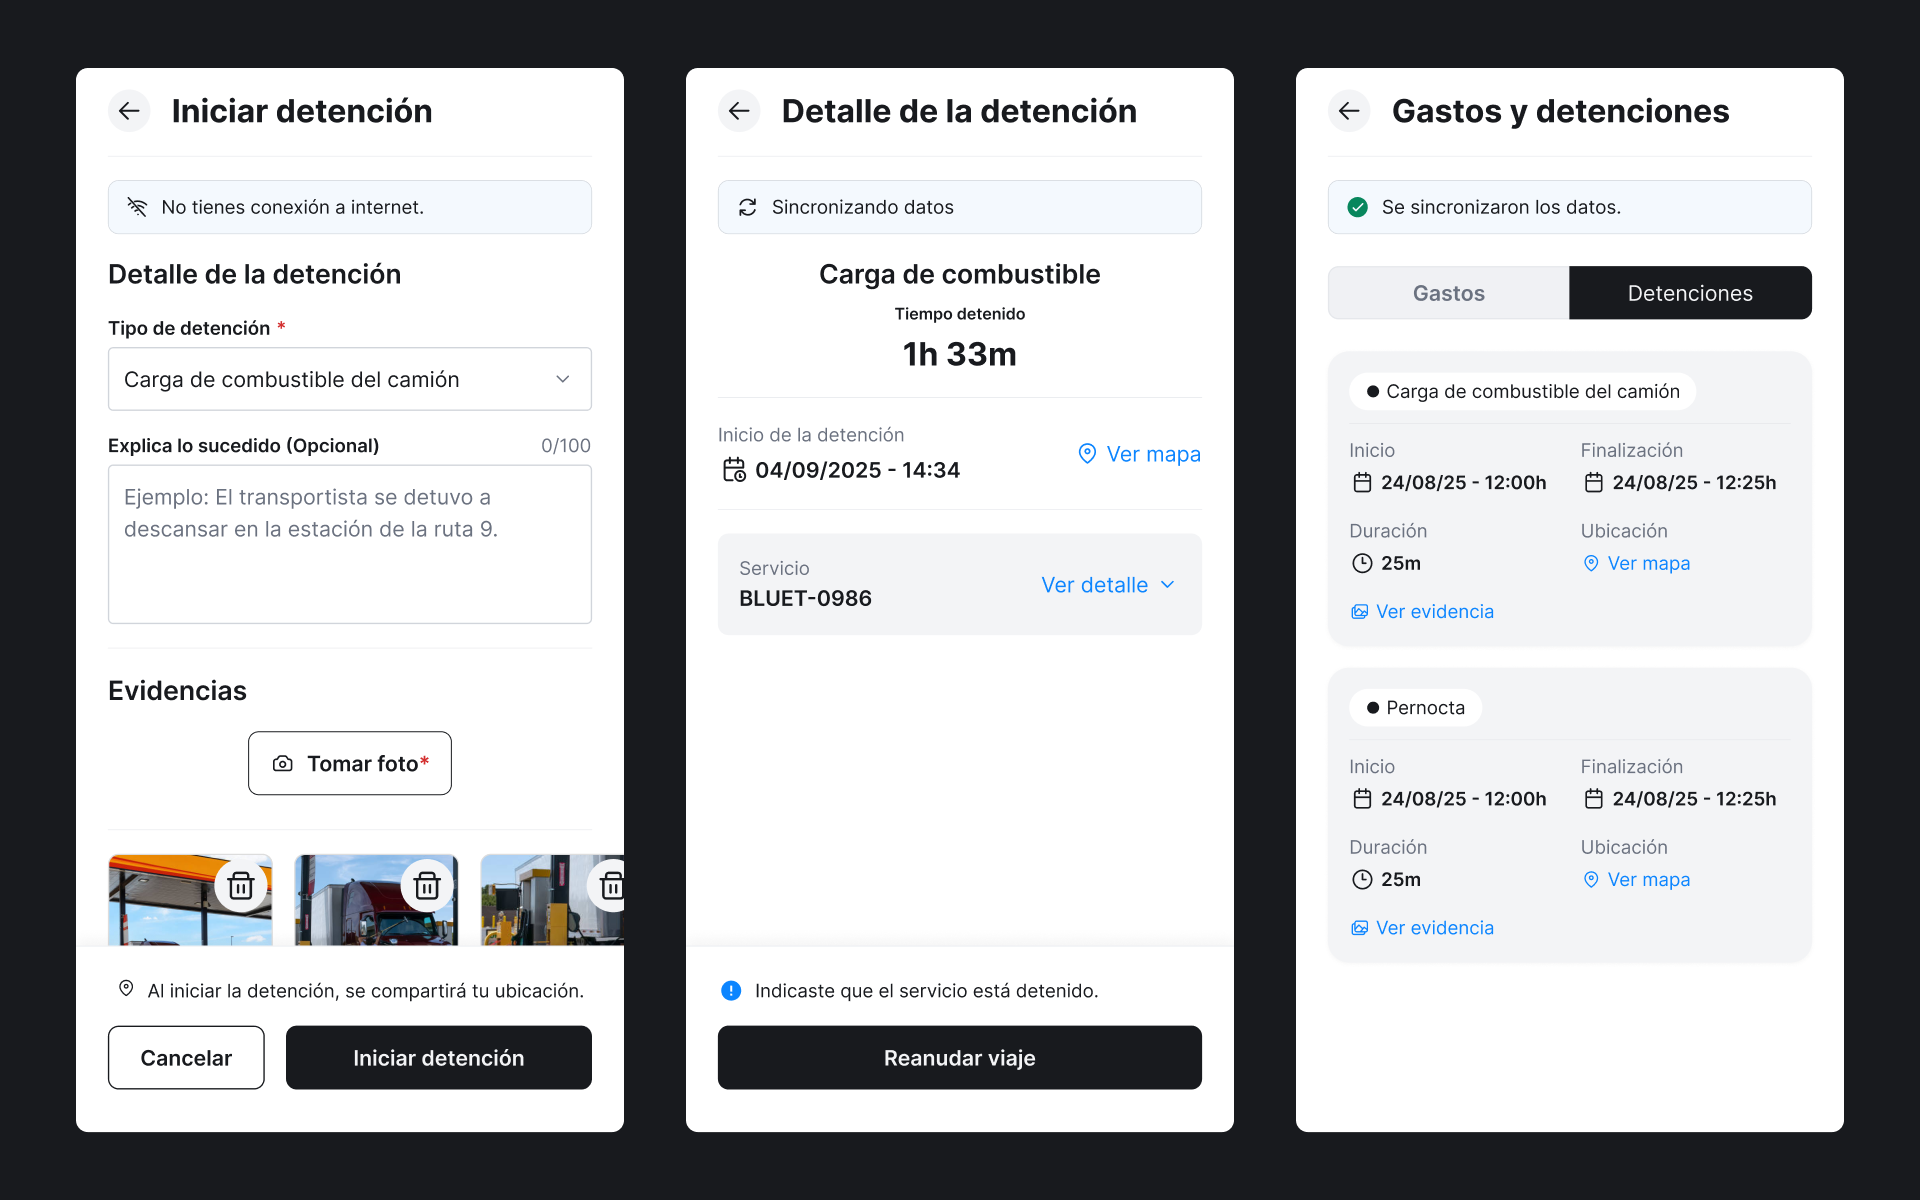
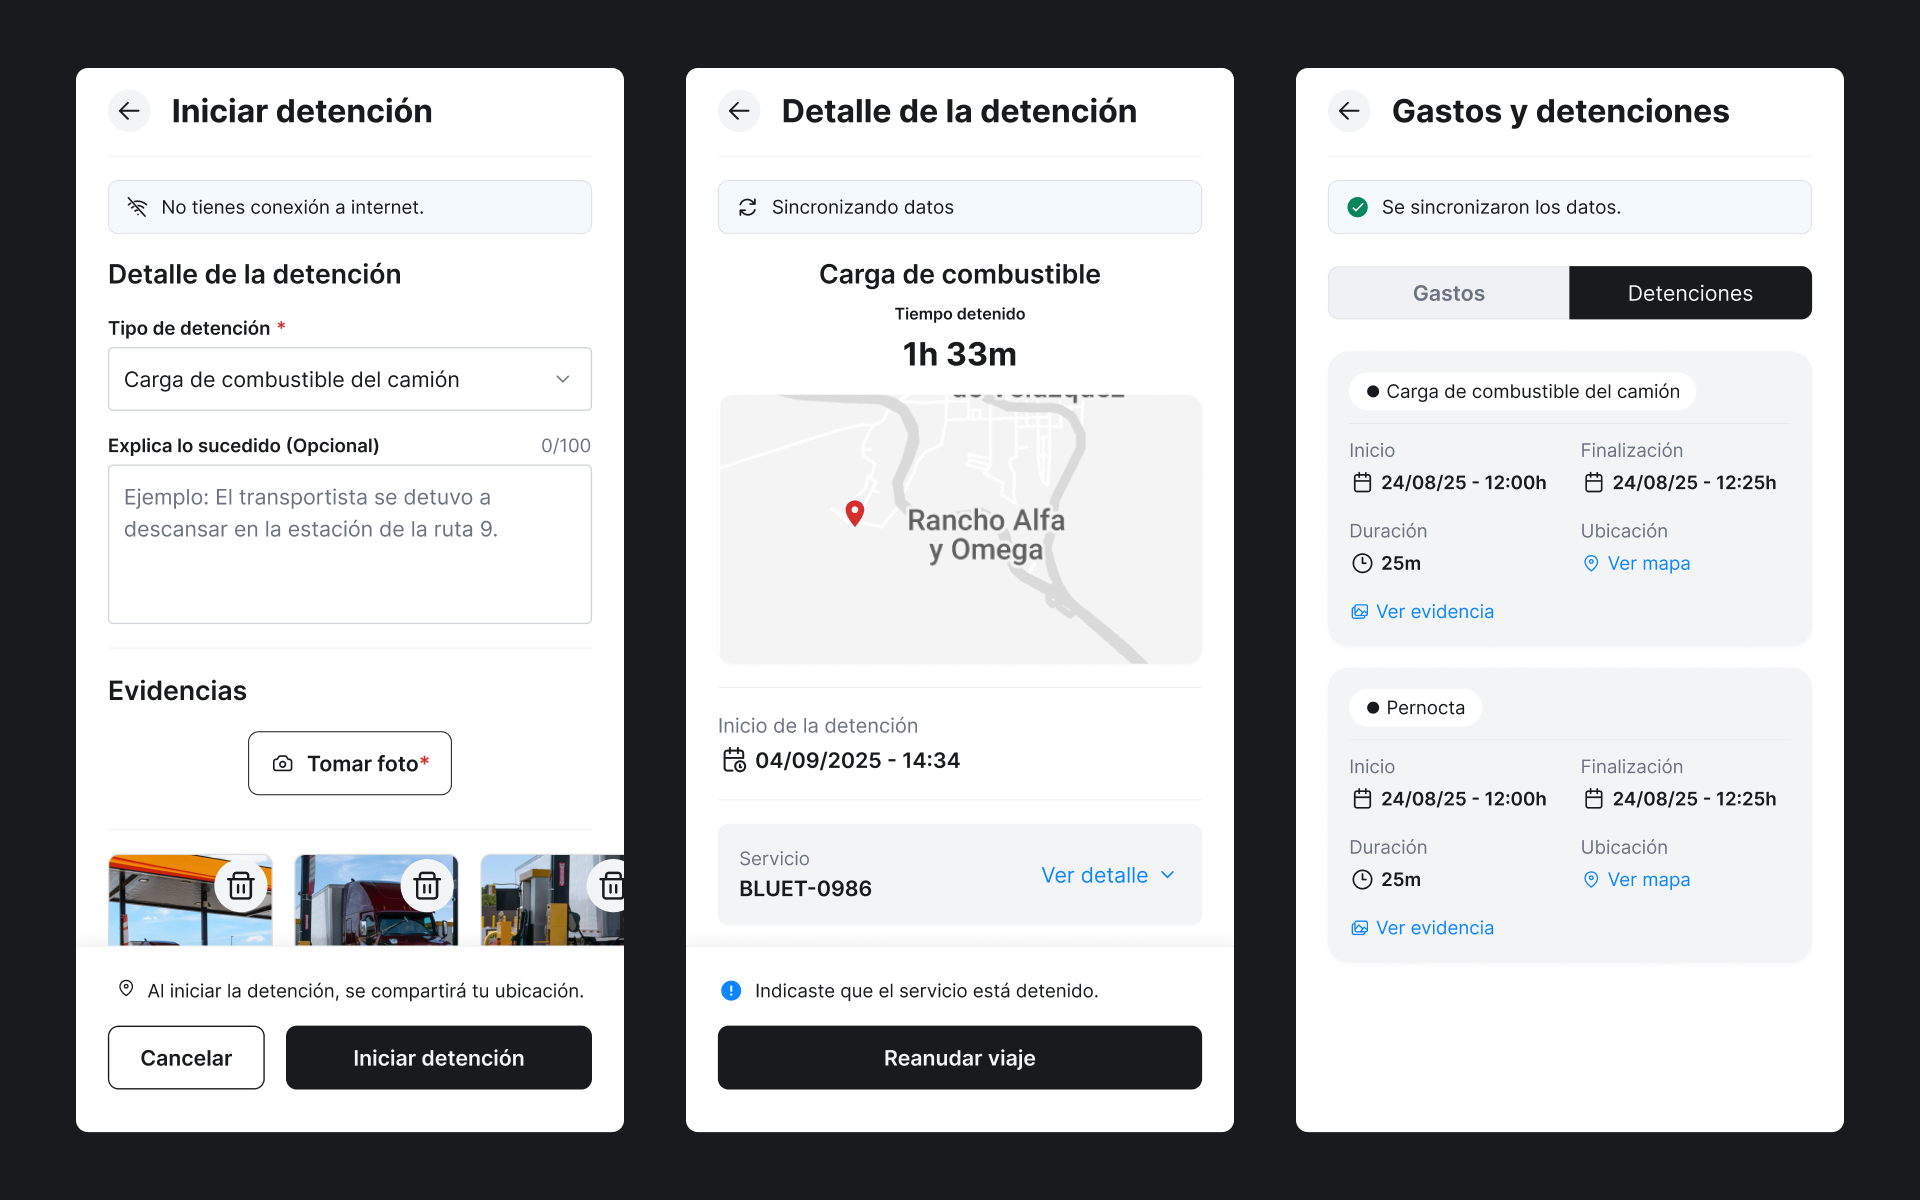
Newp - Text fix

diff --git a/js/data.js b/js/data.js
@@ -63,7 +63,7 @@ const DB_ES = {
                     detail: "Reforcé secciones clave con <b>microinteracciones realizadas en Lottie</b>. Estas animaciones no solo mejoran la estética, sino que sirven como confirmación visual inmediata de acciones exitosas y estados de carga, humanizando la tecnología y guiando al custodio de forma intuitiva durante su jornada."
                 },
                 {
-                    title: "Diseño Sistémico: Dark Mode & Tokens",
+                    title: "Sistema de diseño: Modo oscuro, Variables y Tokens",
                     description: "Construcción de un ecosistema visual flexible y accesible para todas las plataformas.",
                     image: "projects/app-centaurus/sc-7.png",
                     detail: "Para garantizar una experiencia óptima en cualquier condición de iluminación, construí un <b>sistema de diseño con soporte nativo para Modo Oscuro</b>. <br><br><b>Puntos clave del desarrollo:</b> <br><ul><li><b>Gestión de Fatiga Visual:</b> Diseñamos el modo oscuro específicamente para reducir el cansancio visual de los custodios durante servicios nocturnos o en cabinas de baja luz.</li><li><b>Alineación Técnica (Design Tokens):</b> Colaboré estrechamente con el equipo de tecnología para definir una nomenclatura uniforme de variables, asegurando que el nombre de los colores fuera idéntico en diseño y desarrollo.</li><li><b>Accesibilidad Garantizada:</b> Auditamos cada contraste para asegurar que todos los componentes fueran legibles y accesibles en ambos modos, cumpliendo con estándares de usabilidad para entornos críticos.</li></ul>"
@@ -394,7 +394,7 @@ const DB_EN = {
                     detail: "I reinforced key sections with <b>Lottie microinteractions</b>. These animations not only improve aesthetics but serve as immediate visual confirmation of successful actions and loading states, humanizing technology and guiding the escort intuitively during their day."
                 },
                 {
-                    title: "Systemic Design: Dark Mode & Tokens",
+                    title: "Design System: Dark Mode, Variables & Tokens",
                     description: "Building a flexible and accessible visual ecosystem for all platforms.",
                     image: "projects/app-centaurus/sc-7.png",
                     detail: "To ensure an optimal experience in any lighting condition, I built a <b>design system with native Dark Mode support</b>. <br><br><b>Key development highlights:</b> <br><ul><li><b>Visual Fatigue Management:</b> We designed dark mode specifically to reduce eye strain for escorts during night shifts or in low-light cab environments.</li><li><b>Technical Alignment (Design Tokens):</b> I collaborated closely with the engineering team to define a unified variable naming convention, ensuring color names were identical in design and development.</li><li><b>Guaranteed Accessibility:</b> We audited every contrast ratio to ensure all components were readable and accessible in both modes, meeting usability standards for critical environments.</li></ul>"